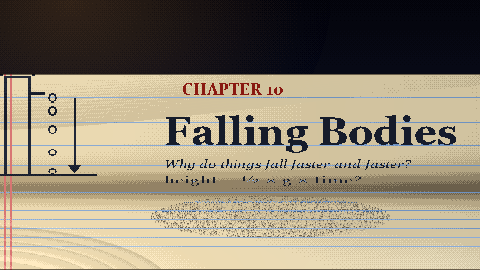
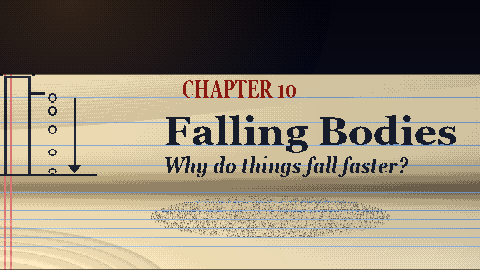
Prologue page: crisp heading and question
The italic question and the 'height = ...' line broke up at the foot of
the page curl. The question is now bold italic, shorter and pre-stretched
against the curl; the formula line is gone (the law is printed big on the
floor). CHAPTER 10 is pre-stretched too, so its H keeps its crossbar.

Changed region(s): [[0.3438, 0.563, 0.875, 0.6815], [0.375, 0.2963, 0.625, 0.3852]]

diff --git a/art/world/scene_prologue.py b/art/world/scene_prologue.py
@@ -81,10 +81,10 @@ def _texture(erased):
         ASTERISK = (110.0, FLOOR_FRONT - 170.0)
 
     # the curled page reads like a wall: chapter heading and a tower diagram
-    _stamp(tex, "CHAPTER 10", _font("georgiab.ttf", 15), -60, S_FLAT + 128, 1.12, PRINT_RED)
+    _stamp(tex, "CHAPTER 10", _font("georgiab.ttf", 17), -60, S_FLAT + 124, 1.5, PRINT_RED)
     _stamp(tex, "Falling Bodies", _font("georgiab.ttf", 40), -78, S_FLAT + 64, 1.12, PRINT)
-    _stamp(tex, "Why do things fall faster and faster?", _font("georgiai.ttf", 15), -78, S_FLAT + 40, 1.12, PRINT)
-    _stamp(tex, "height = ½ × g × time²", _font("georgia.ttf", 19), -78, S_FLAT + 12, 1.12, PRINT)
+    # small type is bold and pre-stretched tall: the foot of the curl squashes it flat. The law itself is on the floor.
+    _stamp(tex, "Why do things fall faster?", _font("georgiaz.ttf", 18), -78, S_FLAT + 26, 1.8, PRINT)
     # tower diagram (left of the heading): a tower, the ground, and a strobe of a falling ball spreading out
     img = Image.new("L", (110, 130), 0)
     d = ImageDraw.Draw(img)
